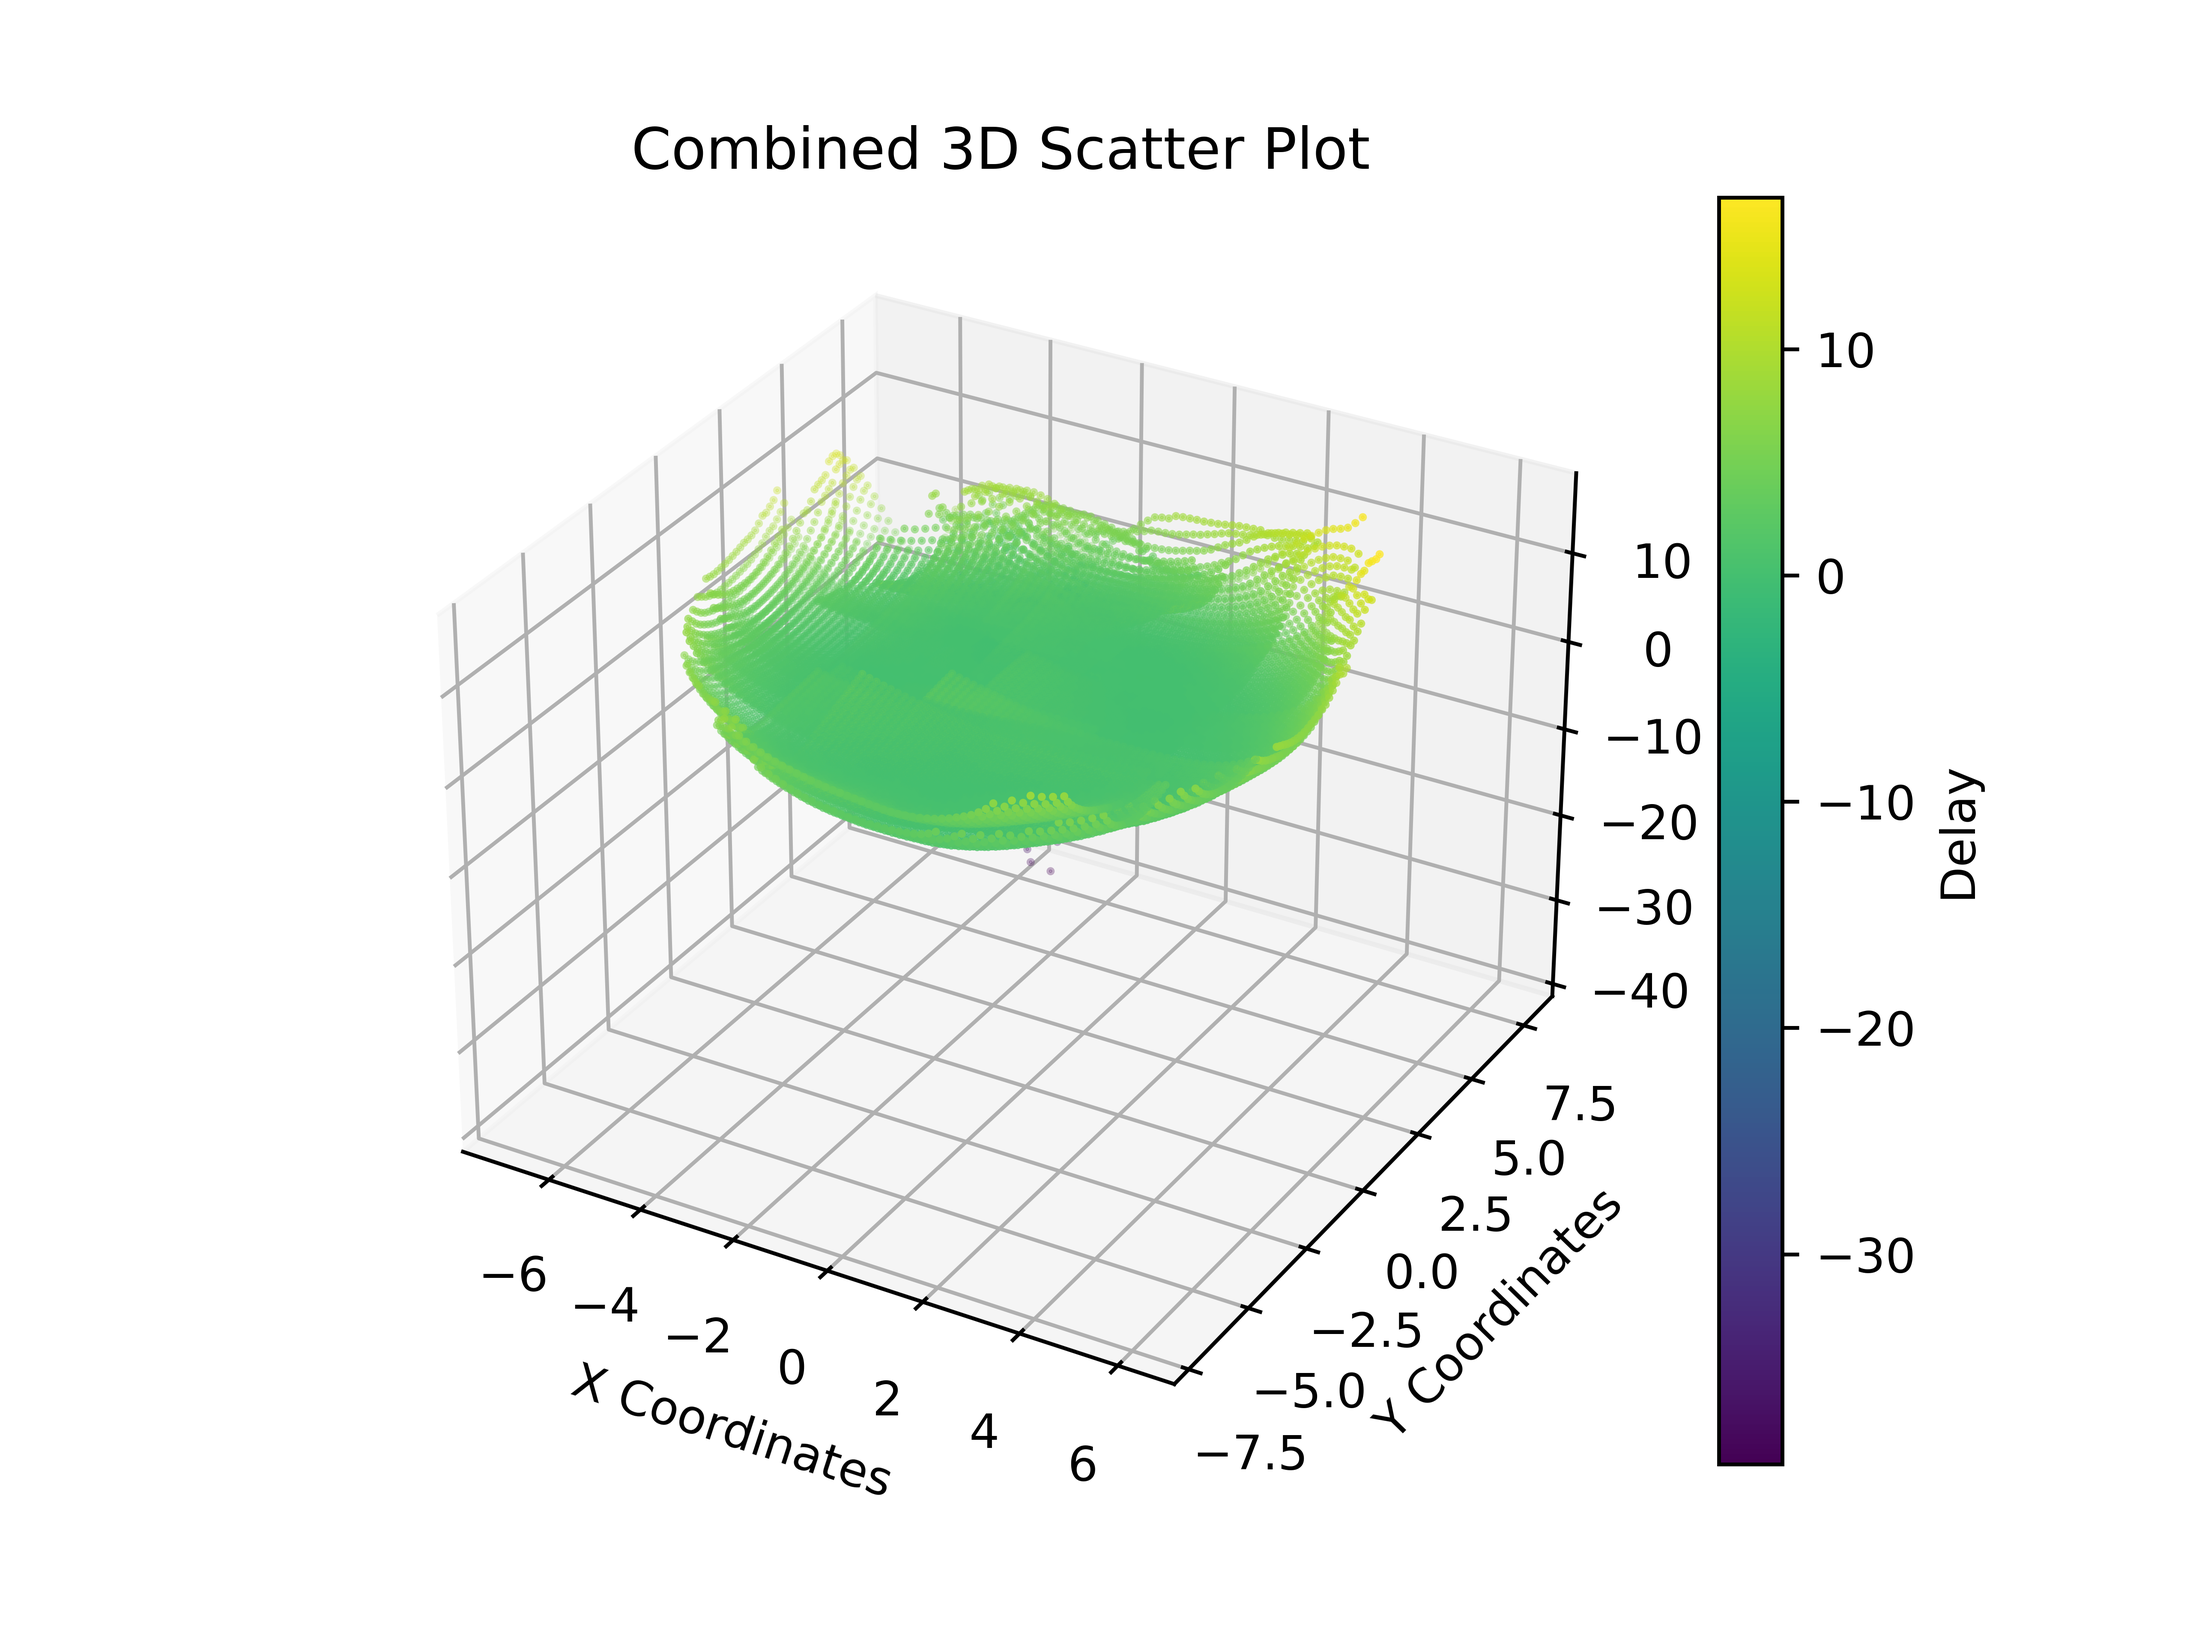
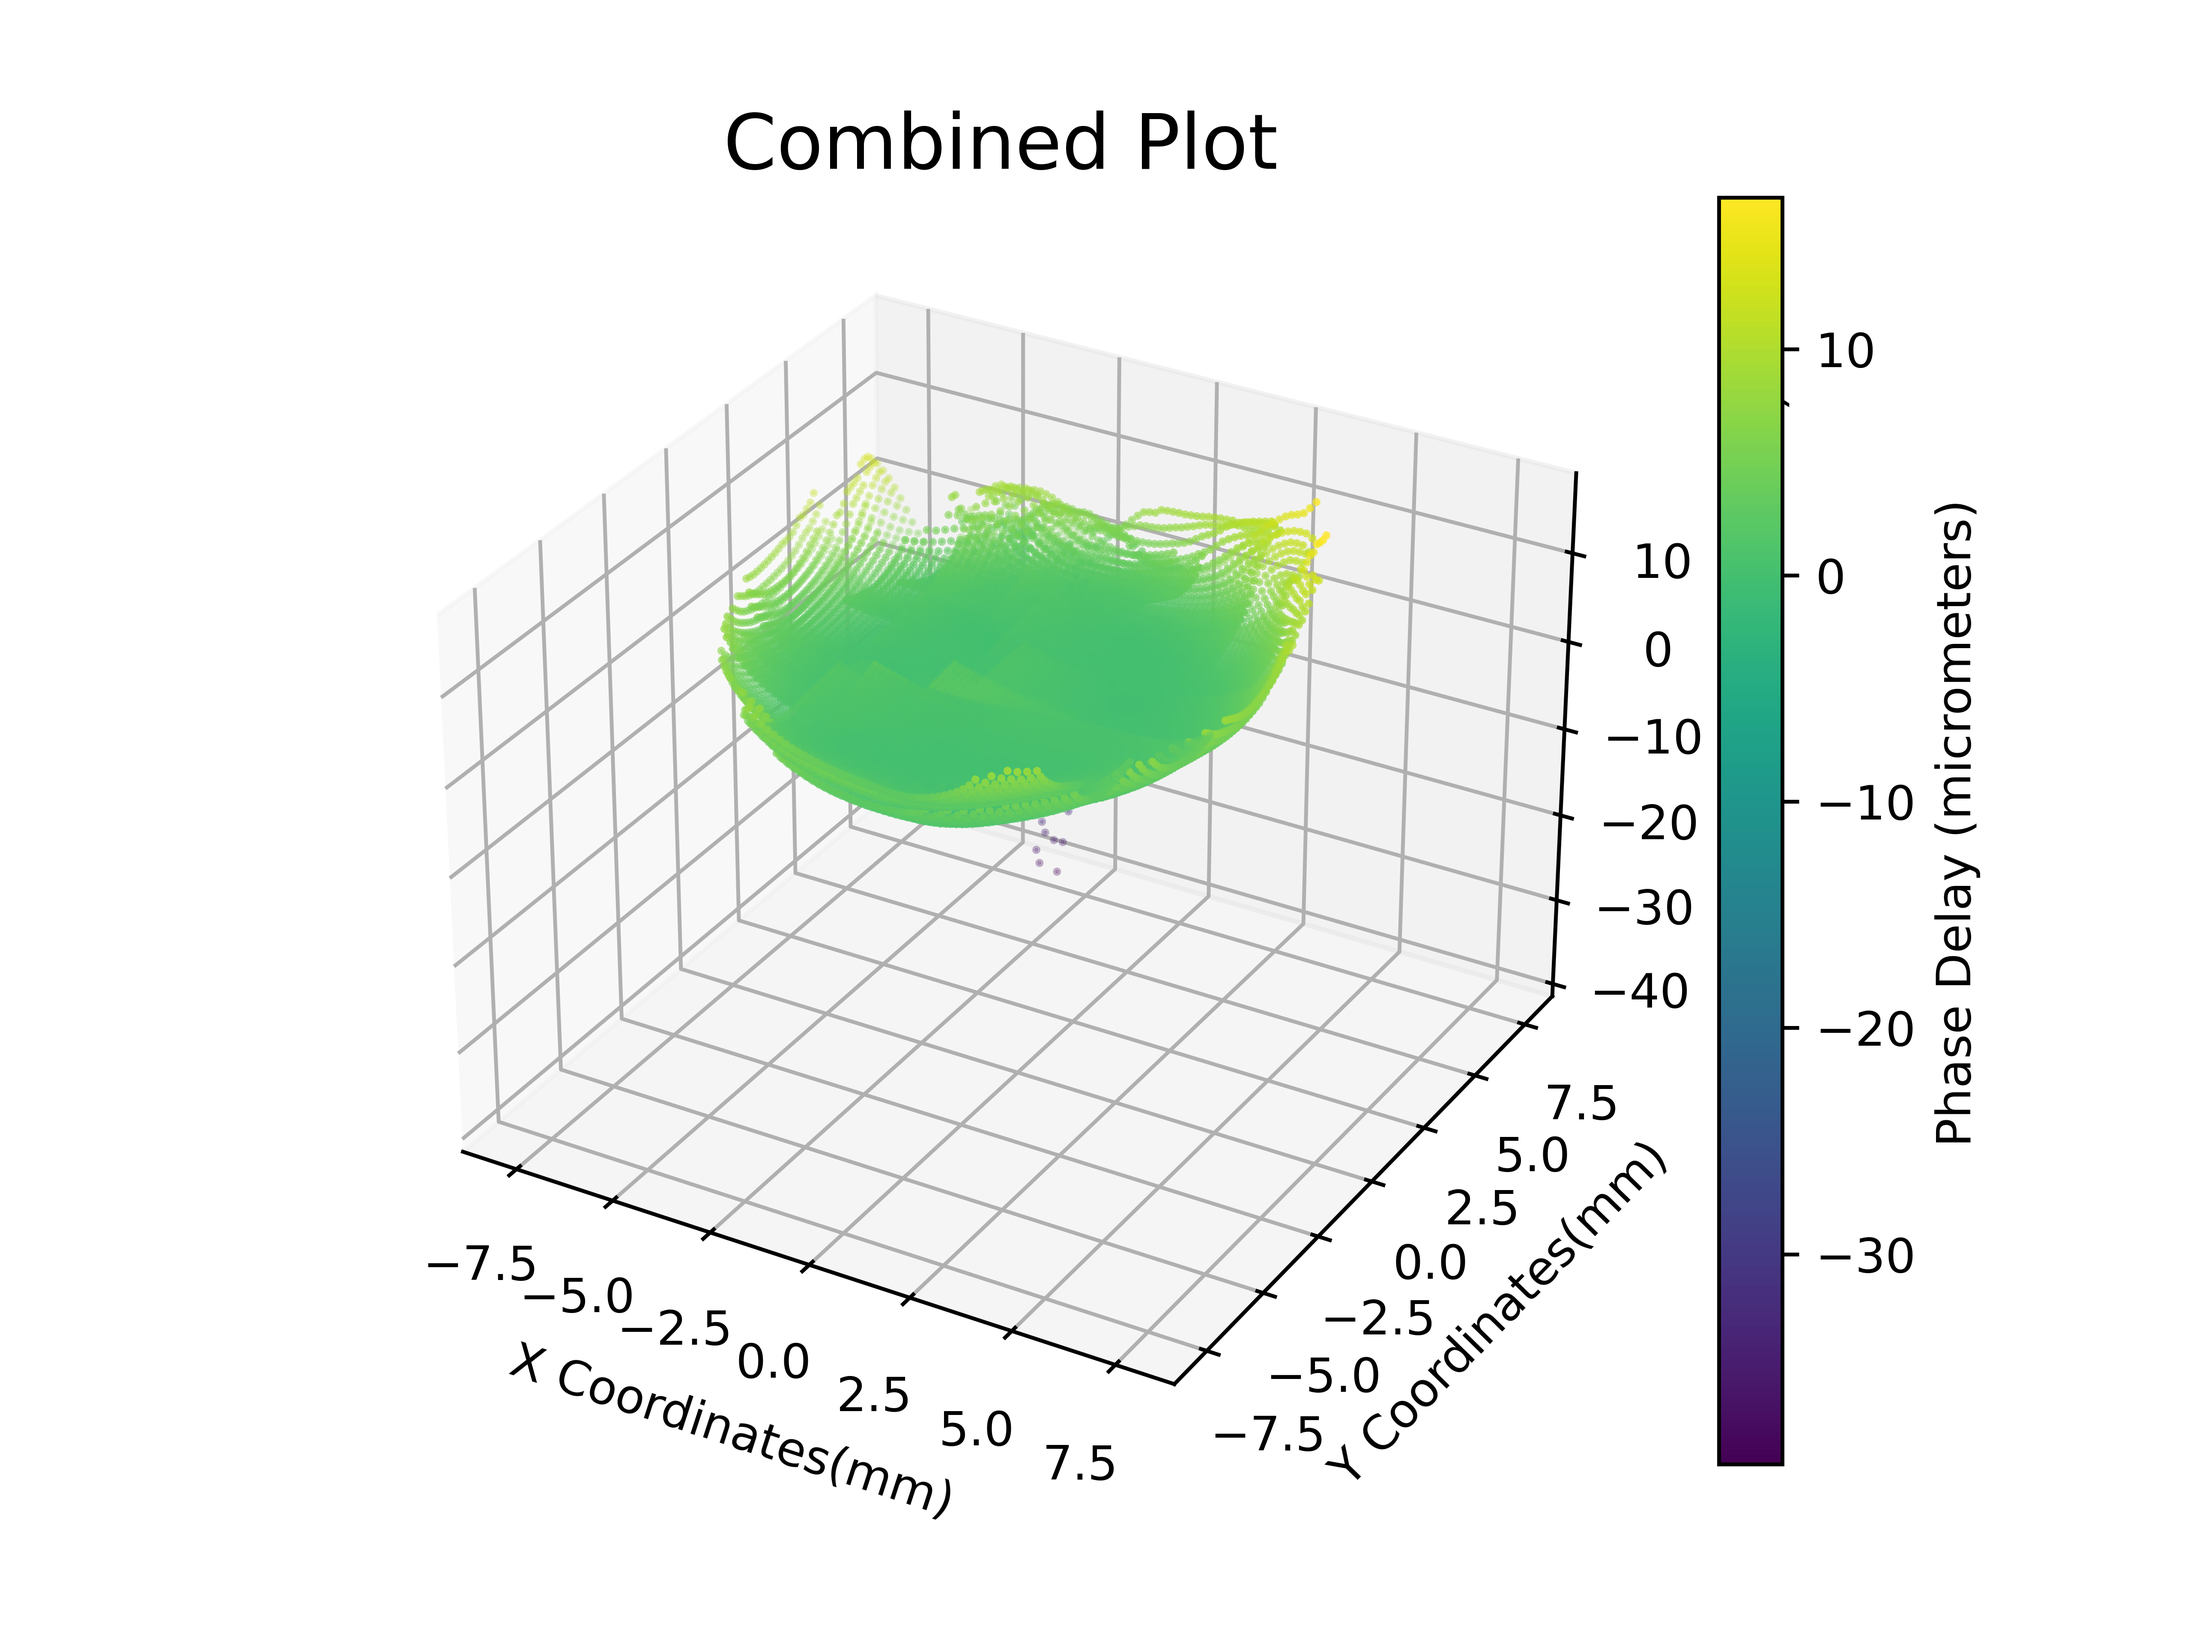
bench

diff --git a/imageMatch.py b/imageMatch.py
@@ -11,6 +11,17 @@ from mpl_toolkits.mplot3d import Axes3D
 from matplotlib.ticker import MaxNLocator
 from matplotlib.colors import SymLogNorm
 
+stop_recursion = False
+
+
+def integration():
+    print("integrate")
+
+
+
+
+
+
 def find_template_location(original, template): #finds template
     result = cv2.matchTemplate(original, template, cv2.TM_CCOEFF_NORMED)
     _, _, min_loc, max_loc = cv2.minMaxLoc(result)
@@ -79,6 +90,20 @@ def loadSnippit(original_image, original_image_width, original_image_height): #l
 
     return templates, templateNames, xscale, yscale, template_folder
 
+
+def filter_csv_files(csv_files):
+    while True:
+        exclude_files = input("Enter the filenames of CSVs to exclude, separated by commas (or press Enter to skip): ")
+        if not exclude_files:
+            return csv_files
+        
+        exclude_files_list = [f.strip() for f in exclude_files.split(',')]
+        csv_files = [f for f in csv_files if os.path.basename(f) not in exclude_files_list]
+        
+        print(f"Remaining files: {csv_files}")
+        regraph = input("Do you want to regraph with the remaining files? (Y/N): ")
+        if regraph.upper() == 'Y':
+            return csv_files
 
 #STUFF FOR PHASE DELAY
 
@@ -213,7 +238,8 @@ def mmFromCenter(px,py, original, sides, templateCenters): #finds shift of snipp
         mmYShift.append(yshift * mmPerPixel)
     return mmXShift, mmYShift
 
-def make3d(datasets,labels,outputDir, minX = None, maxX = None, minY = None, maxY = None):
+def make3d(datasets,labels,outputDir, folder, xshift, yshift, minX = None, maxX = None, minY = None, maxY = None):
+    global stop_recursion
     all_x_values = []
     all_y_values = []
     all_z_values = []
@@ -272,29 +298,50 @@ def make3d(datasets,labels,outputDir, minX = None, maxX = None, minY = None, max
         sc3d = ax3d.scatter(valid_X, valid_Y, valid_Z, c=valid_Z, cmap='viridis', s=.5, label=label)
         sc3d.set_norm(plt.Normalize(vmin=vmin, vmax=vmax))
 
-    cbar3d = fig3d.colorbar(sc3d, ax=ax3d, label='Delay')
-    ax3d.set_xlabel('X Coordinates')
-    ax3d.set_ylabel('Y Coordinates')
-    ax3d.set_zlabel('Z Values')
-    ax3d.set_title('Combined 3D Scatter Plot')
+    cbar3d = fig3d.colorbar(sc3d, ax=ax3d, label=' Phase Delay (micrometers)')
+    ax3d.set_xlabel('X Coordinates(mm)')
+    ax3d.set_ylabel('Y Coordinates(mm)')
+    ax3d.set_zlabel('Phase Delay (micrometers)')
+    ax3d.set_title('Combined Plot', fontsize = 16) #FONT HERE
 
-    ax3d.set_xlim(min(all_x_values) - 1, max(all_x_values) + 1)
-    ax3d.set_ylim(min(all_y_values) - 1, max(all_y_values) + 1)
+    
+    overall_min = min(min(all_x_values), min(all_y_values)) - 1
+    overall_max = max(max(all_x_values), max(all_y_values)) + 1
+
+    total_bound = max(abs(overall_max),abs(overall_min))
+
+    ax3d.set_xlim(-1*total_bound, total_bound)
+    ax3d.set_ylim(-1*total_bound, total_bound)
     ax3d.set_zlim(vmin - 1, vmax + 1)
 
     imgOutput3d = os.path.join(outputDir, "combined_3d_plot.png")
     fig3d.savefig(imgOutput3d, dpi=800)
     plt.show()
+    if stop_recursion == True:
+        return
+    answer = input("Z:Zoom, R:regraph with exclusions, B:original E:Exit")
+    while answer != 'E':
+        if answer =="Z":
+            try:
+                minX = float(input("Enter new minX (or press Enter to skip): ") or minX)
+                maxX = float(input("Enter new maxX (or press Enter to skip): ") or maxX)
+                minY = float(input("Enter new minY (or press Enter to skip): ") or minY)
+                maxY = float(input("Enter new maxY (or press Enter to skip): ") or maxY)
+                make3d(datasets,labels,outputDir, folder,xshift,yshift, minX, maxX, minY, maxY)
+            except ValueError:
+                print("Invalid input. Skipping replotting.")
+        exclusions = []
+        if answer == "R":
+            exclusions_input = input("Enter the csvs you want excluded. No extension, separated by commas: ").strip()
+            exclusions = [name.strip() for name in exclusions_input.split(',')]
+            print(exclusions)
+            getPowerArray(folder,outputDir,xshift,yshift, exclusions)
+        if answer == "B":
+            getPowerArray(folder,outputDir,xshift,yshift)
 
-    try:
-        minX = float(input("Enter new minX (or press Enter to skip): ") or minX)
-        maxX = float(input("Enter new maxX (or press Enter to skip): ") or maxX)
-        minY = float(input("Enter new minY (or press Enter to skip): ") or minY)
-        maxY = float(input("Enter new maxY (or press Enter to skip): ") or maxY)
-        # Replot the graph with new values
-        make3d(datasets,labels,outputDir, minX, maxX, minY, maxY)
-    except ValueError:
-        print("Invalid input. Skipping replotting.")
+        answer = input("Z:Zoom, R:regraph with exclusions, E:Exit")
+    exit()
+
 
 def makeScatterPlot(datasets, labels, outputDir):
     all_x_values = []
@@ -326,27 +373,54 @@ def makeScatterPlot(datasets, labels, outputDir):
 
 
     ax2d.set_facecolor('black')
-    cbar2d = fig2d.colorbar(sc2d, ax=ax2d, label='Delay')
-    ax2d.set_xlabel('X Coordinates')
-    ax2d.set_ylabel('Y Coordinates')
-    ax2d.set_title('Combined 2D Scatter Plot')
+    cbar2d = fig2d.colorbar(sc2d, ax=ax2d, label='Phase Delay (micrometers)')
+    ax2d.set_xlabel('X Coordinates(mm)')
+    ax2d.set_ylabel('Y Coordinates(mm)')
+    ax2d.set_title('Combined Plot', fontsize = 16)
 
-    ax2d.set_xlim(min(all_x_values) - 1, max(all_x_values) + 1)
-    ax2d.set_ylim(min(all_y_values) - 1, max(all_y_values) + 1)
+
+    
+
+    overall_min = min(min(all_x_values), min(all_y_values)) - 1
+    overall_max = max(max(all_x_values), max(all_y_values)) + 1
+
+    total_bound = max(abs(overall_max),abs(overall_min))
+
+    ax2d.set_xlim(-1*total_bound, total_bound)
+    ax2d.set_ylim(-1*total_bound, total_bound)
 
     ax2d.xaxis.set_major_locator(MaxNLocator(integer=True, nbins='auto'))
     ax2d.yaxis.set_major_locator(MaxNLocator(integer=True, nbins='auto'))
-    cbar2d.set_ticks(np.linspace(vmin, vmax, 10))
+    cbar2d.set_ticks(np.linspace(vmin, vmax, 5))
 
     imgOutput2d = os.path.join(outputDir, "combined_2d_plot.png")
     fig2d.savefig(imgOutput2d, dpi=800)
 
 
 
-def getPowerArray(folder, outputDir, xshift, yshift):
+def getPowerArray(folder, outputDir, xshift, yshift, exclude = None):
     csvFiles = glob.glob(os.path.join(folder, "*.csv"))
     datasets = []
     labels = []
+
+    filtered_xshift = xshift
+    filtered_yshift = yshift
+
+  
+
+    if exclude is not None:
+        filtered_xshift = []
+        filtered_yshift =[]
+        filtered_csvFiles = []
+        for idx, file in enumerate(csvFiles):
+            base_name = os.path.basename(file)
+            name,_ = os.path.splitext(base_name)
+            if name not in exclude:
+                filtered_csvFiles.append(file)
+                filtered_xshift.append(xshift[idx])
+                filtered_yshift.append(yshift[idx])
+        csvFiles = filtered_csvFiles
+        print(csvFiles)
 
     if not csvFiles:
         print("Oops, no files found.")
@@ -386,8 +460,8 @@ def getPowerArray(folder, outputDir, xshift, yshift):
         plot_data = plot_data[:, :-1]
         # Apply shifts
         y_values = [-y for y in y_values] #camera is upside down, must flip
-        x_values = [x + xshift[counter] for x in x_values]
-        y_values = [y + yshift[counter] for y in y_values]
+        x_values = [x + filtered_xshift[counter] for x in x_values]
+        y_values = [y + filtered_yshift[counter] for y in y_values]
 
         # Adjust x_values and y_values to match the plot_data's dimensions
         x_values = x_values[:plot_data.shape[1]]
@@ -397,7 +471,7 @@ def getPowerArray(folder, outputDir, xshift, yshift):
 
     # Create the scatter plot
     makeScatterPlot(datasets, labels, outputDir)
-    make3d(datasets, labels, outputDir )
+    make3d(datasets, labels, outputDir,folder, xshift,yshift) #pass data, lables, output, and the folder with csvs, all for regraphing
     print(f".csv files and images saved to {outputDir}")
 
 

diff --git a/wfs.py b/wfs.py
@@ -79,7 +79,7 @@ lib.WFS_SetPupil(instrument_handle, c_double(0.0), c_double(0.0), c_double(2.0),
 actual_exposure = c_double()
 actual_gain = c_double()
 device_status = c_int32()
-
+#NOISE
 print(lib.WFS_SetExposureTime(instrument_handle, c_double(0.01), byref(actual_exposure)))
 print(actual_exposure)
 
@@ -202,12 +202,26 @@ def threadfunc():
         if answer == "1":
             lib.WFS_SetHighspeedMode(instrument_handle,c_int32(1),c_int32(1),c_int32(1),c_int32(0))
             lib.WFS_TakeSpotfieldImage(instrument_handle)
+            lib.WFS_GetStatus(instrument_handle, byref(device_status))
+            if device_status.value & 0x00000002:
+                print("Power too high")
+            elif device_status.value & 0x00000004:
+                print("Power too low")
+            elif device_status.value & 0x00000008:
+                print("High ambient light")
             lib.WFS_CalcSpotsCentrDiaIntens(instrument_handle, c_int32(1), c_int32(1))
             pattern(output, counter)
 
         if answer == "2":
             lib.WFS_SetHighspeedMode(instrument_handle,c_int32(0),c_int32(1),c_int32(1),c_int32(0))
             lib.WFS_TakeSpotfieldImage(instrument_handle)
+            lib.WFS_GetStatus(instrument_handle, byref(device_status))
+            if device_status.value & 0x00000002:
+                print("Power too high")
+            elif device_status.value & 0x00000004:
+                print("Power too low")
+            elif device_status.value & 0x00000008:
+                print("High ambient light")
             lib.WFS_CalcSpotsCentrDiaIntens(instrument_handle, c_int32(1), c_int32(1))
             power(output,counter)
             print("beam photo!")
@@ -236,4 +250,9 @@ ani = animation.FuncAnimation(fig, update, interval=10, fargs=(img_plot,))
 
 #plt.xlim()
 plt.show()
+
+
+#NOTES: noise and exposure time can be set by changing code itself
+#The are marked and on LINE HERE
+#This only currently works  with largest aperature.
 
